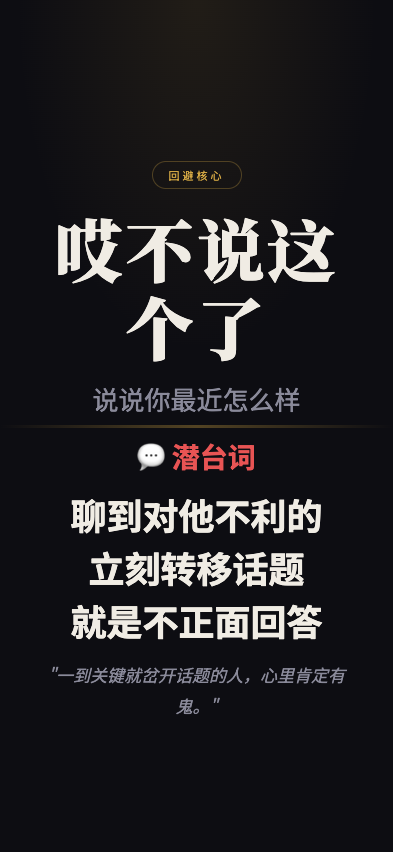
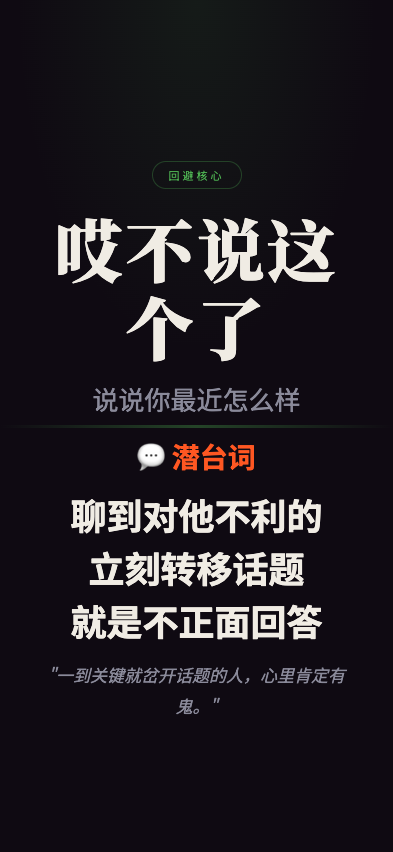
feat: 职场生存法则 screenshot - aibushuozhegele

Changed region(s): [[0.2748, 0.4883, 0.7023, 0.5493], [0.4275, 0.1831, 0.5802, 0.2136]]

diff --git a/wuliao-tools/tools/biz-speak/scenes/aibushuozhegele.html b/wuliao-tools/tools/biz-speak/scenes/aibushuozhegele.html
@@ -7,11 +7,11 @@
 <link href="https://fonts.googleapis.com/css2?family=Noto+Serif+SC:wght@400;700;900&family=Noto+Sans+SC:wght@300;400;700&display=swap" rel="stylesheet">
 <style>
   :root {
-    --bg: #0d0d12;
+    --bg: #0f0a12;
     --text: #f0ece4;
     --text-dim: #8a8a9a;
-    --gold: #d4a843;
-    --red: #e85454;
+    --gold: #4caf50;
+    --red: #ff5722;
   }
   * { margin:0; padding:0; box-sizing:border-box; }
   html, body { width:100%; height:100%; overflow:hidden; }
@@ -24,11 +24,11 @@
   }
   body::before {
     content:''; position:absolute; top:0; left:0; right:0; height:45%;
-    background:radial-gradient(ellipse at 50% 0%, rgba(212,168,67,0.1) 0%, transparent 65%);
+    background:radial-gradient(ellipse at 50% 0%, rgba(76,175,80,0.1) 0%, transparent 65%);
     pointer-events:none; z-index:0;
   }
   .top { flex:1; display:flex; flex-direction:column; align-items:center; justify-content:flex-end; padding:4px 28px 8px; position:relative; z-index:1; }
-  .tag { font-size:11px; letter-spacing:3px; color:var(--gold); border:1px solid rgba(212,168,67,0.3); padding:5px 16px; border-radius:50px; margin-bottom:20px; }
+  .tag { font-size:11px; letter-spacing:3px; color:var(--gold); border:1px solid rgba(76,175,80,0.3); padding:5px 16px; border-radius:50px; margin-bottom:20px; }
   .main-title { font-family:'Noto Serif SC'; font-size:68px; font-weight:900; text-align:center; line-height:1.15; letter-spacing:3px; min-width:0; overflow-wrap:break-word; max-width:92%; }
   .sub-title { font-size:26px; color:var(--text-dim); text-align:center; margin-top:14px; }
   .divider { width:100%; height:3px; background:linear-gradient(90deg,transparent,var(--gold),transparent); opacity:0.35; flex-shrink:0; position:relative; z-index:1; }
